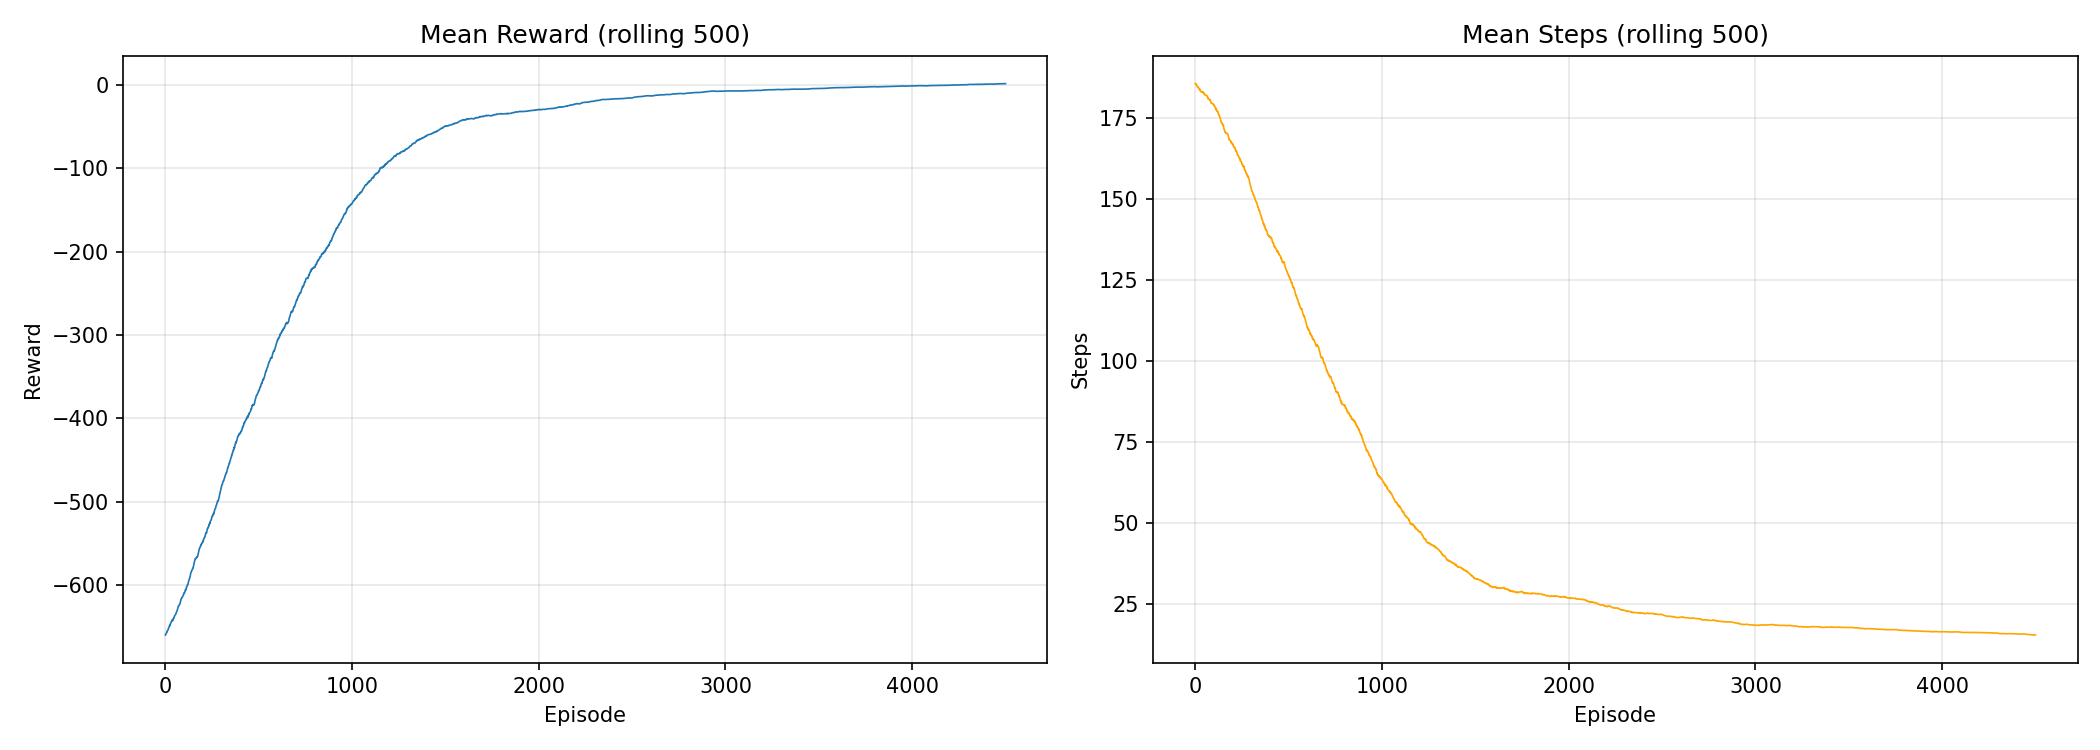
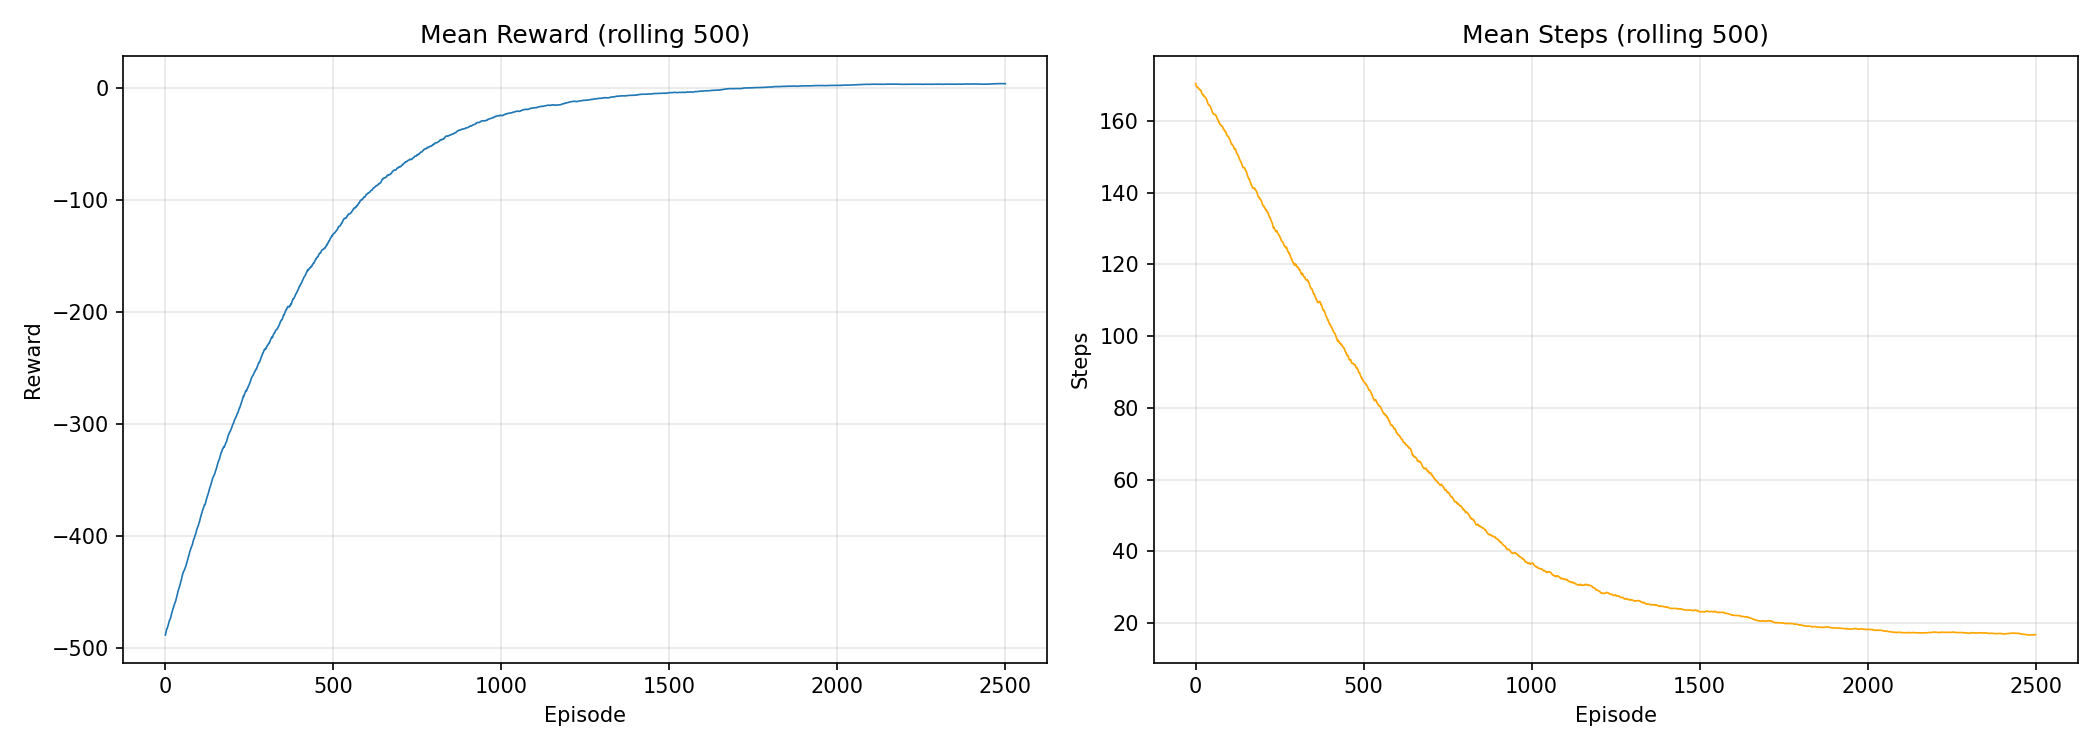
[ADD] 2D Taxi Map Graphic Visualization for training and testing

diff --git a/Q_learning/q_learning.py b/Q_learning/q_learning.py
@@ -1,9 +1,13 @@
+import pygame
 import gymnasium as gym
 import numpy as np
 import matplotlib.pyplot as plt
+import time
 from time import sleep
+
 try:
     from IPython.display import clear_output, display
+
     HAS_IPYTHON = True
 except ImportError:
     HAS_IPYTHON = False
@@ -13,18 +17,26 @@ import random
 class Taxi:
     def __init__(self, render_mode="rgb_array", env_version="v4"):
         self.render_mode = render_mode
+        self.env_version = env_version
+
+        # On détermine la version disponible une bonne fois pour toutes
         try:
-            self.env = gym.make(f"Taxi-{env_version}", render_mode=render_mode)
-        except (gym.error.DeprecatedEnv, gym.error.VersionNotFound):
-            fallback = "v4" if env_version == "v3" else "v3"
-            print(f"Taxi-{env_version} indisponible, fallback sur Taxi-{fallback}")
-            self.env = gym.make(f"Taxi-{fallback}", render_mode=render_mode)
+            gym.spec(f"Taxi-{env_version}")
+            self.active_version = env_version
+        except Exception:
+            self.active_version = "v4" if env_version == "v3" else "v3"
+            print(
+                f"Taxi-{env_version} indisponible, fallback sur Taxi-{self.active_version}"
+            )
+
+        # Initialisation par défaut pour l'entraînement (rapide, sans Pygame)
+        self.env = gym.make(f"Taxi-{self.active_version}", render_mode=self.render_mode)
         self.q_table = np.zeros([self.env.observation_space.n, self.env.action_space.n])
 
         # Hyperparamètres par défaut
-        self.alpha = 0.1        # Learning rate
-        self.gamma = 0.6        # Discount factor
-        self.epsilon = 1.0      # Exploration rate initiale
+        self.alpha = 0.1
+        self.gamma = 0.6
+        self.epsilon = 1.0
         self.epsilon_min = 0.01
         self.epsilon_decay = 0.9995
 
@@ -55,8 +67,9 @@ class Taxi:
                 # Bellman update
                 old_value = self.q_table[state, action]
                 next_max = np.max(self.q_table[next_state])
-                self.q_table[state, action] = (1 - self.alpha) * old_value + \
-                    self.alpha * (reward + self.gamma * next_max)
+                self.q_table[state, action] = (
+                    1 - self.alpha
+                ) * old_value + self.alpha * (reward + self.gamma * next_max)
 
                 if reward == -10:
                     penalties += 1
@@ -73,11 +86,17 @@ class Taxi:
             penalties_per_episode[i] = penalties
 
             if i % 1000 == 0:
-                avg_reward = reward_per_episode[max(0, i - 1000):i + 1].mean() if i > 0 else total_reward
-                print(f"Episode {i:>6}/{train_episodes} | "
-                      f"ε={self.epsilon:.4f} | "
-                      f"Avg reward (last 1k): {avg_reward:.2f} | "
-                      f"Steps: {steps}")
+                avg_reward = (
+                    reward_per_episode[max(0, i - 1000) : i + 1].mean()
+                    if i > 0
+                    else total_reward
+                )
+                print(
+                    f"Episode {i:>6}/{train_episodes} | "
+                    f"ε={self.epsilon:.4f} | "
+                    f"Avg reward (last 1k): {avg_reward:.2f} | "
+                    f"Steps: {steps}"
+                )
 
         print(f"\nTraining terminé — {train_episodes} épisodes")
         print(f"  Mean reward : {reward_per_episode.mean():.2f}")
@@ -89,11 +108,21 @@ class Taxi:
 
         return reward_per_episode
 
-    def test(self, test_episodes=1, timestamp=0.2, fast_testing=False, final_frame_pause=0):
+    def test(
+        self,
+        test_episodes=1,
+        timestamp=0.3,
+        fast_testing=False,
+        final_frame_pause=0,
+    ):
         """Évalue l'agent entraîné (greedy policy, ε=0)."""
         total_rewards = []
         total_steps = []
         total_penalties = []
+
+        if not fast_testing:
+            self.env.close()
+            self.env = gym.make(f"Taxi-{self.active_version}", render_mode="human")
 
         for i in range(test_episodes):
             state, _ = self.env.reset()
@@ -102,30 +131,40 @@ class Taxi:
             steps = 0
             penalties = 0
 
-            while not done:
-                action = np.argmax(self.q_table[state])
-                state, reward, done, truncated, _ = self.env.step(action)
-                done = done or truncated
+        while not done:
+            # 2. SECOUE PYGAME POUR RAFRAÎCHIR L'AFFICHAGE (Crucial sur Ubuntu !)
+            if not fast_testing:
+                pygame.event.pump()
 
-                if reward == -10:
-                    penalties += 1
-                episode_reward += reward
-                steps += 1
+            action = np.argmax(self.q_table[state])
+            state, reward, done, truncated, _ = self.env.step(action)
+            done = done or truncated
 
-                if not fast_testing:
-                    self._render_frame(state, action, reward, episode_reward, i + 1)
-                    sleep(timestamp)
+            if reward == -10:
+                penalties += 1
+            episode_reward += reward
+            steps += 1
 
-            if not fast_testing and final_frame_pause > 0:
-                sleep(final_frame_pause)
+            # 3. UN VRAI SLEEP EN SECONDES
+            if not fast_testing:
+                time.sleep(timestamp)  # 0.3 seconde entre chaque action
 
-            total_rewards.append(episode_reward)
-            total_steps.append(steps)
-            total_penalties.append(penalties)
+        if not fast_testing and final_frame_pause > 0:
+            time.sleep(final_frame_pause)
+
+        total_rewards.append(episode_reward)
+        total_steps.append(steps)
+        total_penalties.append(penalties)
 
         if not fast_testing:
+            self.env.close()
+            self.env = gym.make(
+                f"Taxi-{self.active_version}", render_mode=self.render_mode
+            )
+        else:
             plt.close()
 
+        # ... reste de ton code (calcul des moyennes et print) ...
         avg_steps = np.mean(total_steps)
         avg_penalties = np.mean(total_penalties)
         avg_reward = np.mean(total_rewards)
@@ -142,18 +181,24 @@ class Taxi:
         frame = self.env.render()
         if isinstance(frame, np.ndarray) and HAS_IPYTHON:
             plt.imshow(frame)
-            plt.title(f"Episode: {episode} | Action: {action} | "
-                      f"Reward: {reward} | Total: {episode_reward}")
-            plt.axis('off')
+            plt.title(
+                f"Episode: {episode} | Action: {action} | "
+                f"Reward: {reward} | Total: {episode_reward}"
+            )
+            plt.axis("off")
             clear_output(wait=True)
             display(plt.gcf())
             plt.clf()
         else:
             if HAS_IPYTHON:
                 clear_output(wait=True)
-            print(f"\r State: {state} | Action: {action} | "
-                  f"Reward: {reward} | Total: {episode_reward} | "
-                  f"Episode: {episode}", end="", flush=True)
+            print(
+                f"\r State: {state} | Action: {action} | "
+                f"Reward: {reward} | Total: {episode_reward} | "
+                f"Episode: {episode}",
+                end="",
+                flush=True,
+            )
 
     def _plot_training(self, rewards, steps):
         """Graphiques de convergence post-entraînement."""
@@ -161,7 +206,7 @@ class Taxi:
         fig, axes = plt.subplots(1, 2, figsize=(14, 5))
 
         # Rewards
-        avg_rewards = np.convolve(rewards, np.ones(window) / window, mode='valid')
+        avg_rewards = np.convolve(rewards, np.ones(window) / window, mode="valid")
         axes[0].plot(avg_rewards, linewidth=0.8)
         axes[0].set_title(f"Mean Reward (rolling {window})")
         axes[0].set_xlabel("Episode")
@@ -169,8 +214,8 @@ class Taxi:
         axes[0].grid(True, alpha=0.3)
 
         # Steps
-        avg_steps = np.convolve(steps, np.ones(window) / window, mode='valid')
-        axes[1].plot(avg_steps, linewidth=0.8, color='orange')
+        avg_steps = np.convolve(steps, np.ones(window) / window, mode="valid")
+        axes[1].plot(avg_steps, linewidth=0.8, color="orange")
         axes[1].set_title(f"Mean Steps (rolling {window})")
         axes[1].set_xlabel("Episode")
         axes[1].set_ylabel("Steps")

diff --git a/Q_learning/main.py b/Q_learning/main.py
@@ -10,7 +10,7 @@ def cvar_metrics(reward_array):
     confidence_level = 0.95
     percentile_index = int((1 - confidence_level) * len(reward_array))
     sorted_rewards = np.sort(reward_array)
-    cvar = sorted_rewards[:percentile_index + 1].mean()
+    cvar = sorted_rewards[: percentile_index + 1].mean()
     print(f"CVaR à {confidence_level} de niveau de confiance : {cvar}")
 
 
@@ -25,9 +25,11 @@ def user_mode():
     epsilon = float(input("Epsilon initial [1.0] : ") or 1.0)
     epsilon_min = float(input("Epsilon minimum [0.01] : ") or 0.01)
     epsilon_decay = float(input("Epsilon decay [0.9995] : ") or 0.9995)
-    display = input("Afficher les épisodes de test ? (o/n) [o] : ").strip().lower() or "o"
+    display = (
+        input("Afficher les épisodes de test ? (o/n) [o] : ").strip().lower() or "o"
+    )
 
-    taxi = Taxi.Taxi('rgb_array')
+    taxi = Taxi.Taxi("rgb_array")
     taxi.alpha = alpha
     taxi.gamma = gamma
     taxi.epsilon = epsilon
@@ -39,10 +41,12 @@ def user_mode():
     train_time = round(time.time() - start, 2)
 
     fast = display != "o"
-    taxi.test(test_episodes=test_episodes,
-              timestamp=0.3,
-              fast_testing=fast,
-              final_frame_pause=1)
+    taxi.test(
+        test_episodes=test_episodes,
+        timestamp=0.3,
+        fast_testing=fast,
+        final_frame_pause=1,
+    )
 
     print(f"\nTrain execution time: {train_time}s")
     cvar_metrics(reward_array)
@@ -54,28 +58,34 @@ def time_limited_mode():
 
     train_episodes = int(input("Nombre d'épisodes d'entraînement [10000] : ") or 10000)
     test_episodes = int(input("Nombre d'épisodes de test [25] : ") or 25)
-    display = input("Afficher les épisodes de test ? (o/n) [o] : ").strip().lower() or "o"
+    display = (
+        input("Afficher les épisodes de test ? (o/n) [o] : ").strip().lower() or "o"
+    )
 
     # Paramètres optimisés
-    taxi = Taxi.Taxi('rgb_array')
+    taxi = Taxi.Taxi("rgb_array")
     taxi.alpha = 0.1
     taxi.gamma = 0.6
     taxi.epsilon = 1.0
     taxi.epsilon_min = 0.01
     taxi.epsilon_decay = 0.9995
 
-    print(f"\nParamètres optimisés : α={taxi.alpha}, γ={taxi.gamma}, "
-          f"ε={taxi.epsilon}→{taxi.epsilon_min}, decay={taxi.epsilon_decay}\n")
+    print(
+        f"\nParamètres optimisés : α={taxi.alpha}, γ={taxi.gamma}, "
+        f"ε={taxi.epsilon}→{taxi.epsilon_min}, decay={taxi.epsilon_decay}\n"
+    )
 
     start = time.time()
     reward_array = taxi.train(train_episodes=train_episodes, training_graph=True)
     train_time = round(time.time() - start, 2)
 
     fast = display != "o"
-    taxi.test(test_episodes=test_episodes,
-              timestamp=0.3,
-              fast_testing=fast,
-              final_frame_pause=1)
+    taxi.test(
+        test_episodes=test_episodes,
+        timestamp=0.3,
+        fast_testing=fast,
+        final_frame_pause=1,
+    )
 
     print(f"\nTrain execution time: {train_time}s")
     cvar_metrics(reward_array)
